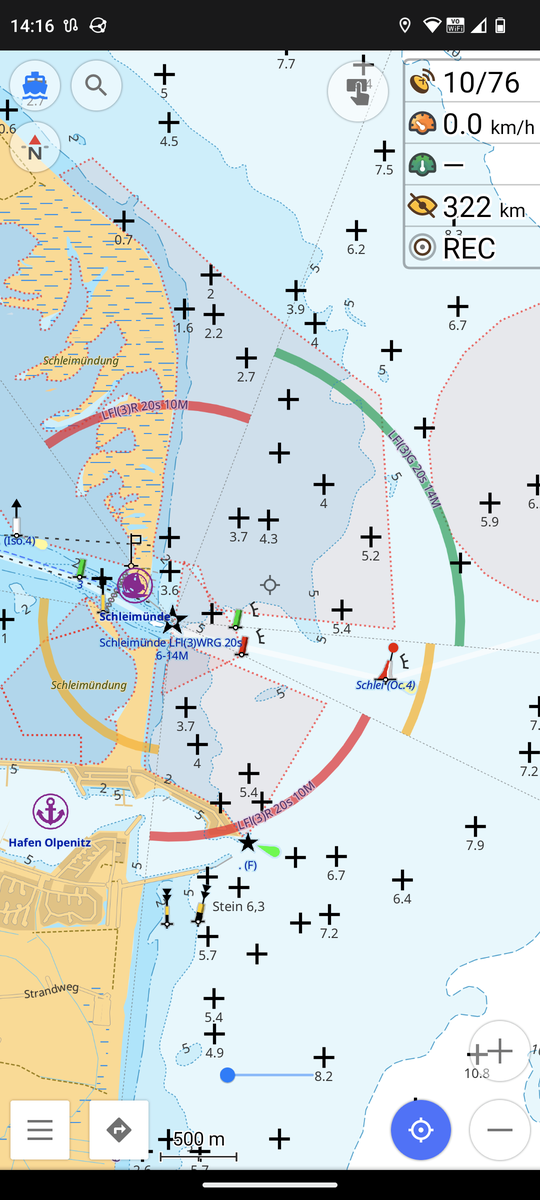
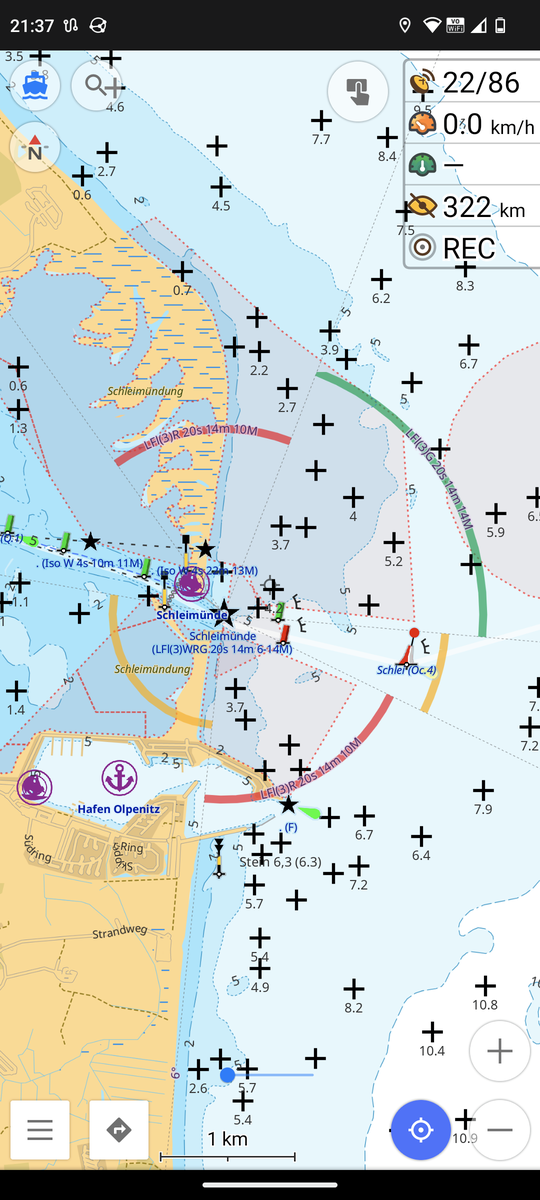
light docs

diff --git a/LIGHTS.md b/LIGHTS.md
@@ -2,7 +2,7 @@
 
 Currently, it is [not possible to render light sectors](https://github.com/osmandapp/OsmAnd/issues/16894) directly in OsmAnd.
 
-The workaround to get light sector displayed is to create dedicated lines for the sector limits and sector arcs based on the [attributes of sector lights](https://wiki.openstreetmap.org/wiki/Seamarks/Lights#Sectored_light_attributes) in the OSM database. 
+The workaround to get light sectors displayed is to create dedicated lines for the sector limits and sector arcs based on the [attributes of sector lights](https://wiki.openstreetmap.org/wiki/Seamarks/Lights#Sectored_light_attributes) in the OSM database. 
 
 The procedure is as follows:
 
@@ -13,6 +13,13 @@ The procedure is as follows:
 - generate an OBF with the [OsmAndMapCreator](https://osmand.net/docs/versions/map-creator) using these [rendering_types.xml](rendering_types.xml) from the output file
 
 :exclamation: The sectors in this OBF are displayed in OsmAnd with the [marine style](marine.render.xml) only.
+
+The script creates
+
+- a colored arc for the sector with characteristics label
+- lines at sector limits with bearing label
+- a line for `light:orientation` with bearing and characteristics label
+- a marker at the light source with characteristics label
 
 Example OBFs can be found in the [releases](https://github.com/quantenschaum/mapping/releases).
 
